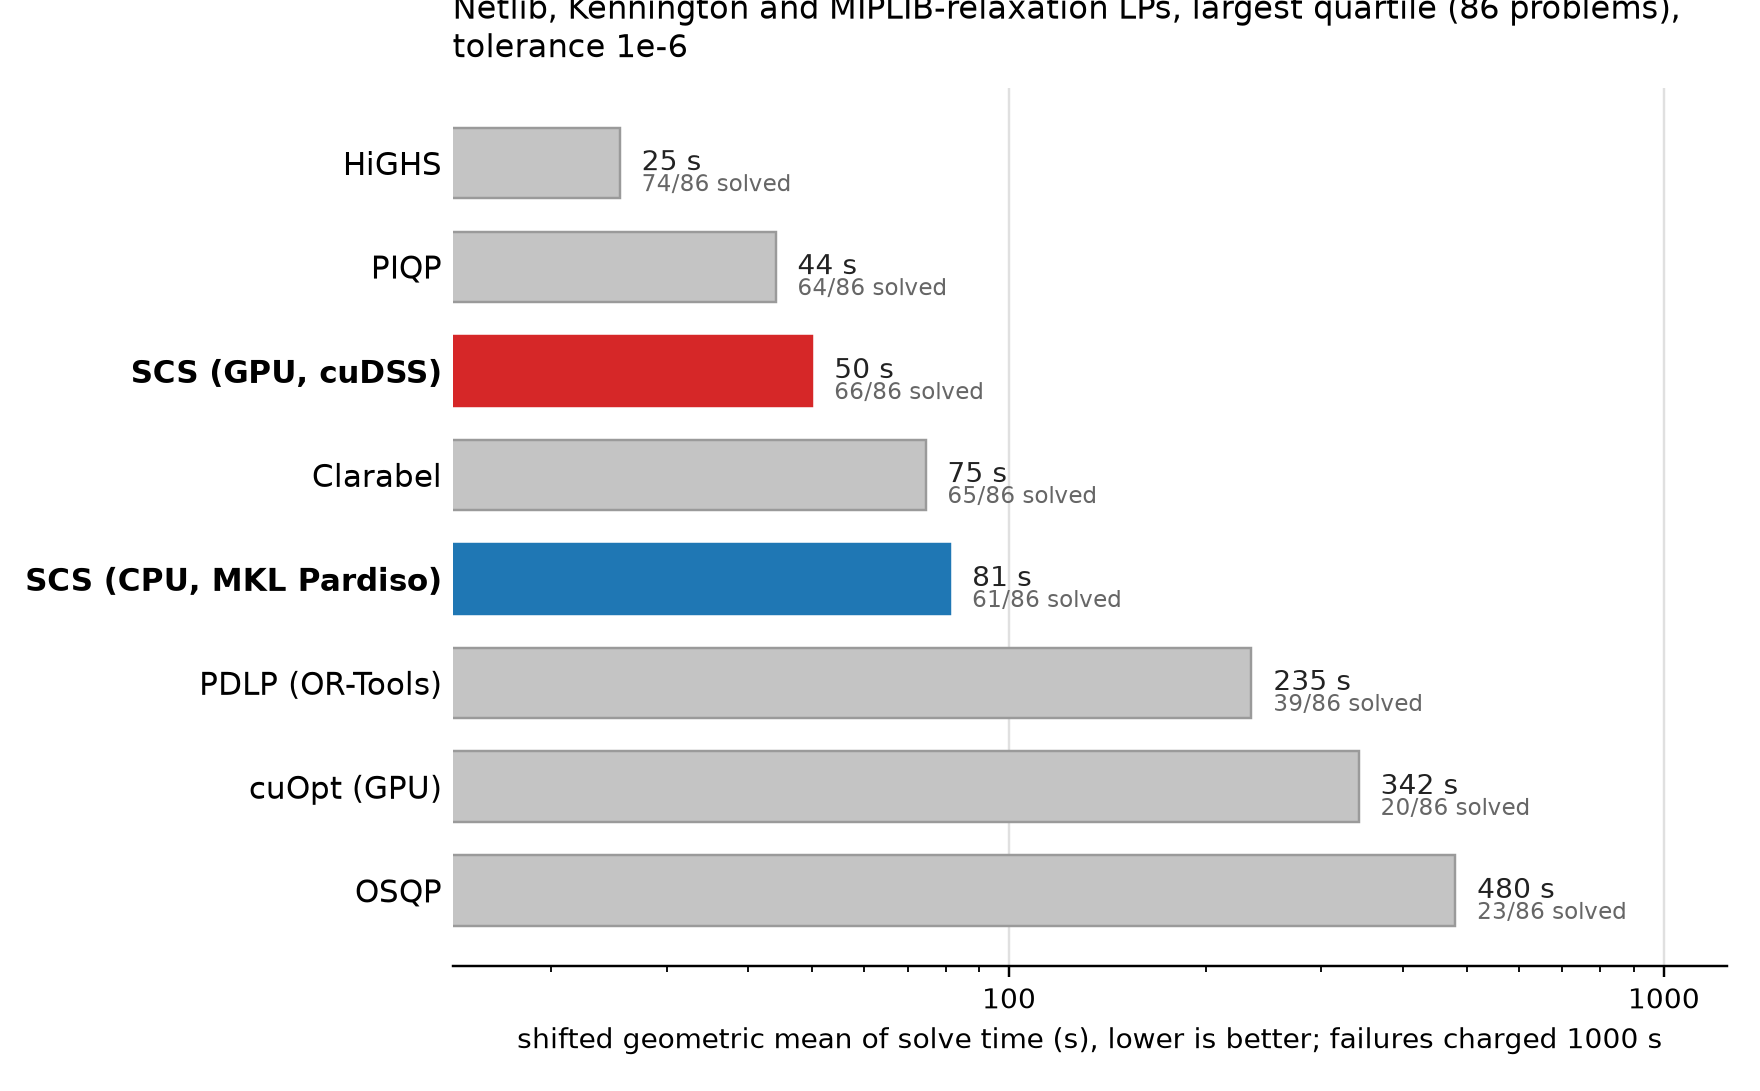
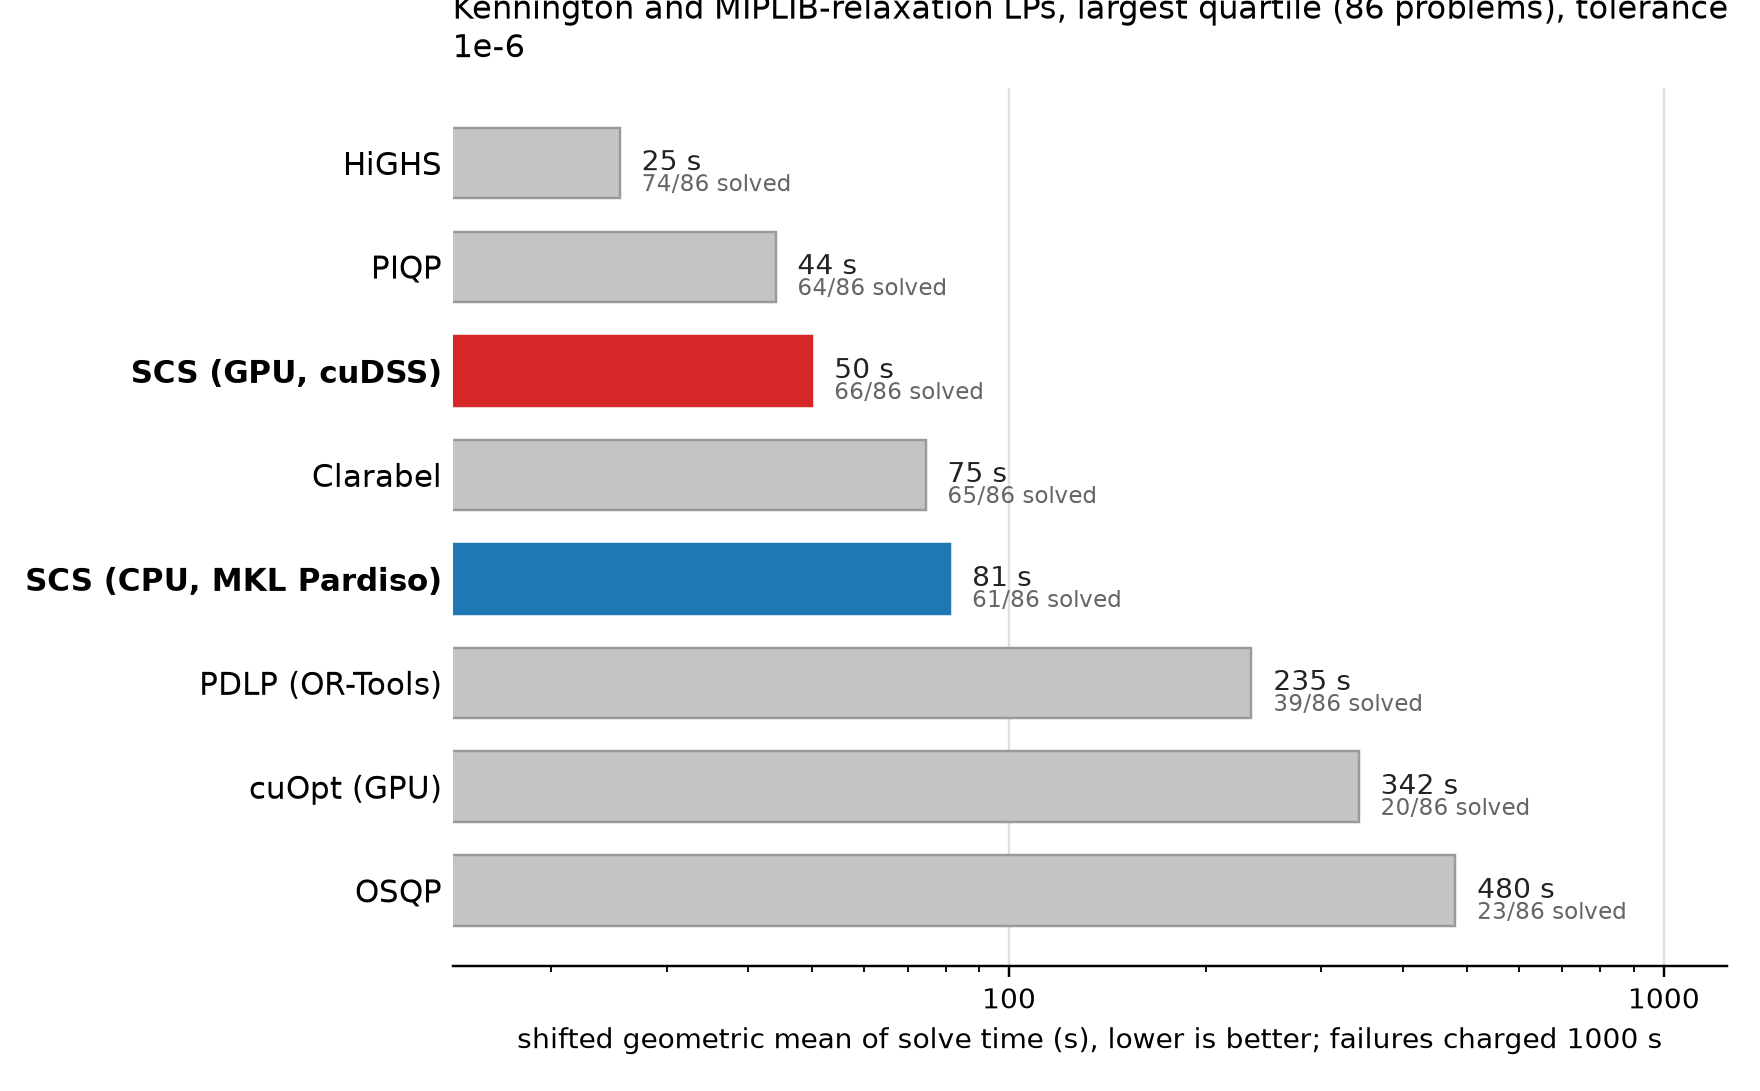
docs: figure titles name the data sets present in each plot

Changed region(s): [[0.25, 0.0, 1.0, 0.0623]]

diff --git a/docs/src/index.rst b/docs/src/index.rst
@@ -103,9 +103,9 @@ including SDPs, and the raw data are on the :ref:`benchmarks page
    :align: center
    :alt: Performance profiles and geometric mean solve times on the largest QPs, largest LPs and the Mittelmann LP set
 
-   Largest quarter of the Maros-Meszaros, QPLIB and MPC QPs (top), largest
-   quarter of the Netlib, Kennington and MIPLIB-relaxation LPs (middle) and
-   the Mittelmann large-LP set (bottom), at tolerance
+   Largest quarter of the Maros-Meszaros and QPLIB QPs (top), largest quarter
+   of the Kennington and MIPLIB-relaxation LPs (middle) and the Mittelmann
+   large-LP set (bottom), at tolerance
    :math:`10^{-4}`. Left: fraction of problems solved within a factor
    :math:`\tau` of the fastest solver. Right: shifted geometric mean solve
    time with failures charged 1000 s, and the number of verified solves.
